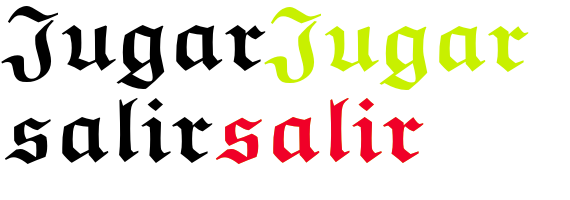
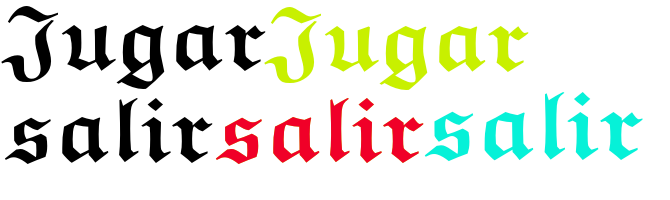
Boton en cargar ip

Changed region(s): [[0.0, 0.03, 0.9246, 0.45], [0.0, 0.45, 0.9544, 0.84]]

diff --git a/src_cl/GameLoopcl.c b/src_cl/GameLoopcl.c
@@ -53,6 +53,8 @@ int menu (ini_var **mvar) {
 	sprintf(maux3, "%d", mauxx);
 	sprintf(maux4, "%d", mauxy);
 	
+	
+	
 	if(mauxx > 454 && mauxx < 726 && mauxy > 499 && mauxy < 596) {
 		
 		mauxopcionesjugar=265;
@@ -163,6 +165,78 @@ int cargar_ip (ini_var **cvar, variablescliente *vcl) {
 	char auxip;
 	int auxip2,auxip3,act;//numero|cantidad de numeros|indicador prim. vez|?|indicador de tecla|
 	int auxip4=0;
+	
+	
+	
+	int cauxopcionessalir,cauxopcionesjugar,cauxopcionesvolver,cauxjugarenlinea;	//No se usa volver
+	int cauxx, cauxy;	//mouse
+	char caux3[11],caux4[11];
+	
+	bool credraw = true;
+	
+	cvariables = *(cvar);
+
+	al_start_timer((cvariables -> timer));
+		
+	al_wait_for_event((cvariables -> event_queue), &(cvariables -> ev));
+	
+	if(((cvariables -> ev).mouse.x > 0) && (((cvariables -> ev).mouse.x) < 1280) && (((cvariables -> ev).mouse.y) > 0) && ((cvariables -> ev).mouse.y < 720)){
+		cauxx=(cvariables -> ev).mouse.x;
+		cauxy=(cvariables -> ev).mouse.y;
+	}
+	
+	sprintf(caux3, "%d", cauxx);
+	sprintf(caux4, "%d", cauxy);
+	//printf("%d",cauxx);
+	//printf("%d",cauxy);
+	
+
+	//---------------------------------------------------------------------
+
+
+		
+	
+	if(cauxx > 1056 && cauxx < 1263 && cauxy > 637 && cauxy < 706) {
+
+		cauxopcionessalir=215;
+	}
+	
+	else
+	{
+		cauxopcionessalir=0;
+	} 		
+
+	if((cvariables -> ev).type == ALLEGRO_EVENT_TIMER) {
+		credraw = true;
+	}
+	else if((cvariables -> ev).type == ALLEGRO_EVENT_DISPLAY_CLOSE) {
+		return -1;
+	}
+	else if((cvariables -> ev).type == ALLEGRO_EVENT_MOUSE_AXES ||
+			(cvariables -> ev).type == ALLEGRO_EVENT_MOUSE_ENTER_DISPLAY) {
+
+		
+	}
+	else if((cvariables -> ev).type == ALLEGRO_EVENT_MOUSE_BUTTON_UP) {
+		if(cauxx > 1056 && cauxx < 1263 && cauxy > 637 && cauxy < 706)
+			return -1;
+		if(cauxx > 454 && cauxx < 726 && cauxy > 499 && cauxy < 596){
+				cauxestadojuego=0;
+				
+			}
+		if(cauxx > 354 && cauxx < 970 && cauxy > 610 && cauxy < 680) {
+			cauxestadojuego=3;
+		}
+	}
+
+  //------------------------------------------------------------------------
+
+				
+		
+		
+
+	
+	
 	
 	if(auxip3!=1)
 	{	
@@ -392,6 +466,15 @@ int cargar_ip (ini_var **cvar, variablescliente *vcl) {
 			al_draw_text((cvariables -> font2), al_map_rgb(0, 0, 255), 280, 100, 0, "Inserte su IP:");
 			al_draw_text((cvariables -> font2), al_map_rgb(0, 0, 255), 300, 250, 0, ip2);
 			//+(auxip2*30),
+			
+			al_draw_text((cvariables -> font), al_map_rgb(0, 255, 0), 280, 50, 0, caux3);
+			al_draw_text((cvariables -> font), al_map_rgb(0, 255, 0), 210, 50, 0, "x:");
+	
+			al_draw_text((cvariables -> font), al_map_rgb(0, 255, 0), 480, 50, 0, caux4);
+			al_draw_text((cvariables -> font), al_map_rgb(0, 255, 0), 410, 50, 0, "y:");
+			
+				al_draw_bitmap_region((cvariables -> opcionesmenuimg),430-cauxopcionessalir,90,210,90,1050,625,0);//y625 x1050 y+35 x + 71
+	
 
 			al_flip_display();
 		}
@@ -616,26 +699,39 @@ int partida (ini_var **pvar, posicion *ppos, auxpartida *pauxpar, frameExplosion
 			if((pauxpar -> auxspritecuboy)==5)
 				(pauxpar -> auxspritecuboy)=0;
 			
-			if((pvariables -> key)[KEY_SPACE] ) {
-				if( (ppos -> bouncer_y2) >= 339.0){
-					(pauxpar -> aux1)=1;
-				}  
-					
-			}
-			else{
-				(pauxpar -> aux1)=0;
-				}
-			if((pauxpar -> aux1)==0){
-				if( (ppos -> bouncer_y2) <= 339.0)
-					{
-						(ppos -> bouncer_y2) += 8.0*10*((pauxpar -> nivel)*0.1);
-					}
-			}
-			if((pauxpar -> aux1)==1){
-				
-			if( (ppos -> bouncer_y2) >= -110.0)
+			
+			
+			
+			if((pvariables -> key)[KEY_SPACE] ) 
 			{
-				(ppos -> bouncer_y2) -= 8.0*10*((pauxpar -> nivel)*0.1);
+				if( (ppos -> bouncer_y2) >= 339.0)
+				{		
+					(pauxpar -> aux1)=1;
+				}  		
+			}
+			else
+			{
+				(pauxpar -> aux1)=0;
+			}
+				
+			if((pauxpar -> aux1)==0)
+			{
+				if( (ppos -> bouncer_y2) <= 336.0)
+					{
+						(ppos -> bouncer_y2) += 80.0*((pauxpar -> nivel)*0.1);
+					}
+					
+			
+					
+					
+				//while((ppos -> bouncer_y2) <= 339.0){(ppos -> bouncer_y2) += 40.0*((pauxpar -> nivel)*0.1);}
+			}
+			
+			if((pauxpar -> aux1)==1)
+			{	
+				if( (ppos -> bouncer_y2) >= -110.0)
+				{
+					(ppos -> bouncer_y2) -= 80.0*((pauxpar -> nivel)*0.1);
 				}
 				else
 				{
